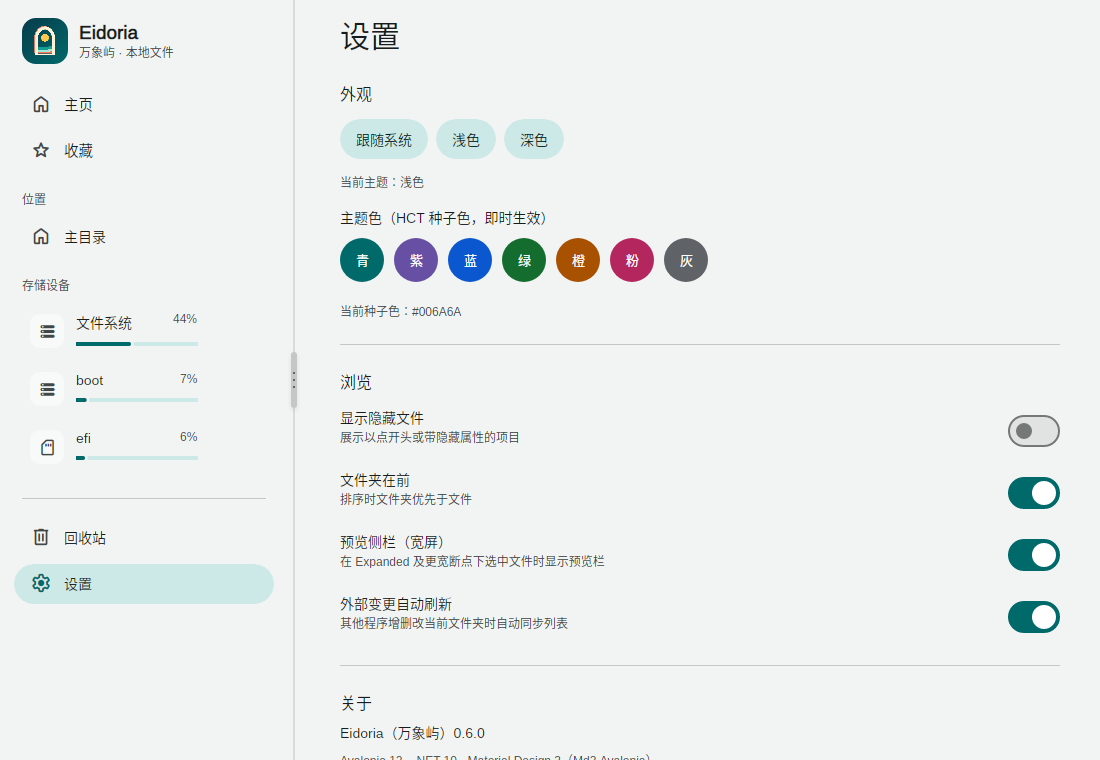
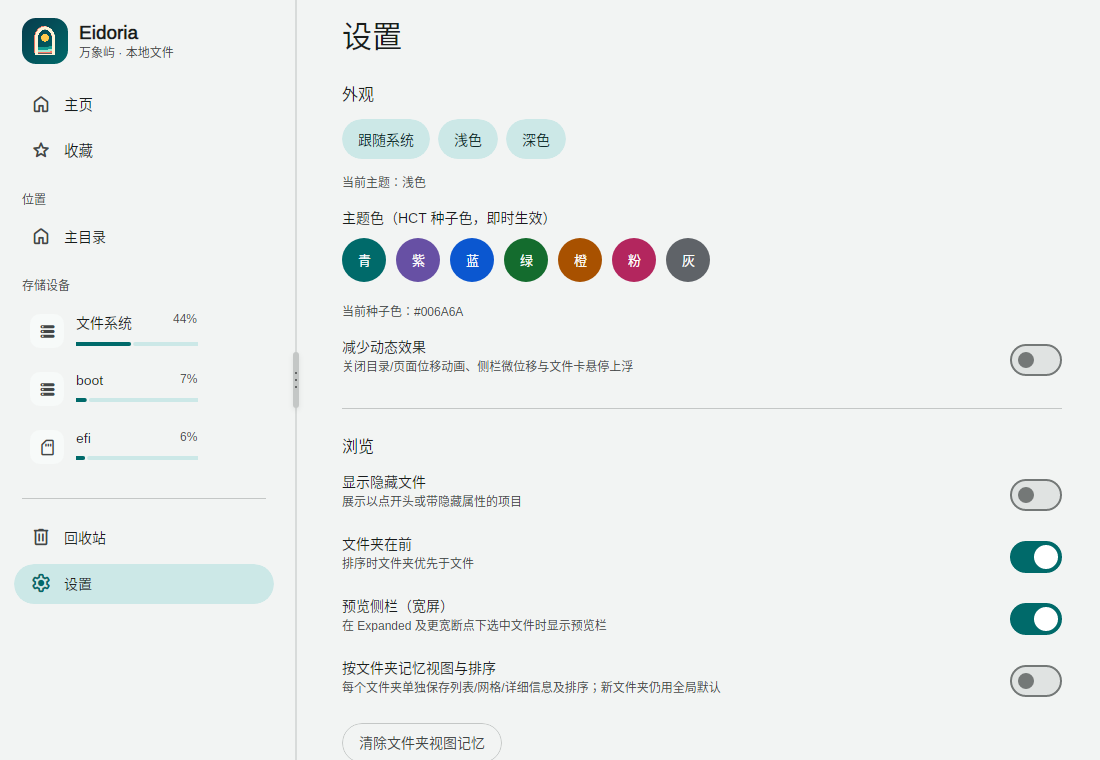
docs: 归档 v0.10 截图与版本记录

diff --git a/README.md b/README.md
@@ -4,7 +4,7 @@
 
 基于 **Avalonia 12 + .NET 10** 的跨平台（Windows / Linux / Android）**本地**文件资源管理器，采用 **Material Design 3**（`Md3.Avalonia`）设计语言，按窗口尺寸类做真响应式（Adaptive）布局：底部导航栏（Compact）→ 导轨（Medium）→ 永久抽屉 + 预览侧栏（Expanded+）。核心层平台无关，平台能力经接口适配；许可证 Apache-2.0（见 `LICENSE`）。
 
-> **状态：v0.8**——浏览/搜索/预览（图片、文本、**Markdown 渲染、代码高亮、PDF 分页**、ZIP 条目）/复制移动删除（含回收站语义）/ZIP/收藏/设置已可用；v0.2 新增文件夹外部变更自动刷新、文件夹大小、校验和与批量重命名；**v0.3 新增 Android SAF 授权文件夹浏览**；**v0.4 新增详细信息视图**；**v0.5 新增拖放与系统剪贴板互通**；**v0.6 新增浏览器标签页与 PDF 分页预览，并将产品品牌定为 Eidoria（万象屿）**（名称与图标见 `docs/BRAND.md`；仓库、命名空间、Android ApplicationId 与数据目录仍保留内部代号 MdExplorer 以兼容既有数据）；**v0.7 新增串行任务中心、可编辑地址栏、最近访问与标签页恢复**；**v0.8 按概念稿重塑视觉层级：柔和底板承载白色工作区与预览浮动卡，标签页改为与工作区同面相连的浏览器式页签，路径胶囊、类型色图标井、圆角文件卡与精确 `MdList` 选中态统一收敛，Compact 将标签轨与面包屑折叠为当前目录**；**v0.9 换装极简新 Logo（深湖拱门·金日屿浪），三栏加入自研 Material 分隔条（拖动/键盘调整并持久化宽度，原型将回流 Md3.Avalonia），目录切换/页面与侧栏补齐入场与点击动效，插件脚本完成 Lua 优先评估（MoonSharp spike、Python 走进程外）**。标签页各自保存路径、前进/后退栈、过滤词与选集，并可跨启动恢复；PDF 预览采用 MIT 许可的 PDFtoImage/PDFium 按页光栅化（Android 内置预览需 API 31+）。音视频播放为后续里程碑；**插件系统与本地 AI 两条轨道已完成评估、仍排在核心完善之后**。
+> **状态：v0.10**——浏览/搜索/预览（图片、文本、**Markdown 渲染、代码高亮、PDF 分页**、ZIP 条目）/复制移动删除（含回收站语义）/ZIP/收藏/设置已可用；v0.2 新增文件夹外部变更自动刷新、文件夹大小、校验和与批量重命名；**v0.3 新增 Android SAF 授权文件夹浏览**；**v0.4 新增详细信息视图**；**v0.5 新增拖放与系统剪贴板互通**；**v0.6 新增浏览器标签页与 PDF 分页预览，并将产品品牌定为 Eidoria（万象屿）**（名称与图标见 `docs/BRAND.md`；仓库、命名空间、Android ApplicationId 与数据目录仍保留内部代号 MdExplorer 以兼容既有数据）；**v0.7 新增串行任务中心、可编辑地址栏、最近访问与标签页恢复**；**v0.8 按概念稿重塑视觉层级：柔和底板承载白色工作区与预览浮动卡，标签页改为与工作区同面相连的浏览器式页签，路径胶囊、类型色图标井、圆角文件卡与精确 `MdList` 选中态统一收敛，Compact 将标签轨与面包屑折叠为当前目录**；**v0.9 换装极简新 Logo（深湖拱门·金日屿浪），三栏加入自研 Material 分隔条（拖动/键盘调整并持久化宽度，原型将回流 Md3.Avalonia），目录切换/页面与侧栏补齐入场与点击动效，插件脚本完成 Lua 优先评估（MoonSharp spike、Python 走进程外）**；**v0.10 新增按文件夹记忆视图与排序（可关、可清除、最多 200 个）和应用内“减少动态效果”，Material 分隔条补齐双击/Home 复位、16px 热区与 `:reduce-motion` 状态，设置页版本改为动态读取**。标签页各自保存路径、前进/后退栈、过滤词与选集，并可跨启动恢复；PDF 预览采用 MIT 许可的 PDFtoImage/PDFium 按页光栅化（Android 内置预览需 API 31+）。音视频播放为后续里程碑；**插件系统与本地 AI 两条轨道已完成评估、仍排在核心完善之后**。
 
 ## 效果（CI 无头渲染实拍，归档于 `docs/assets/screenshots/`，含 Markdown/代码/批量重命名/详细信息视图/拖放提示/标签页/PDF/地址栏/任务中心/精修主页 共 21 张）
 
